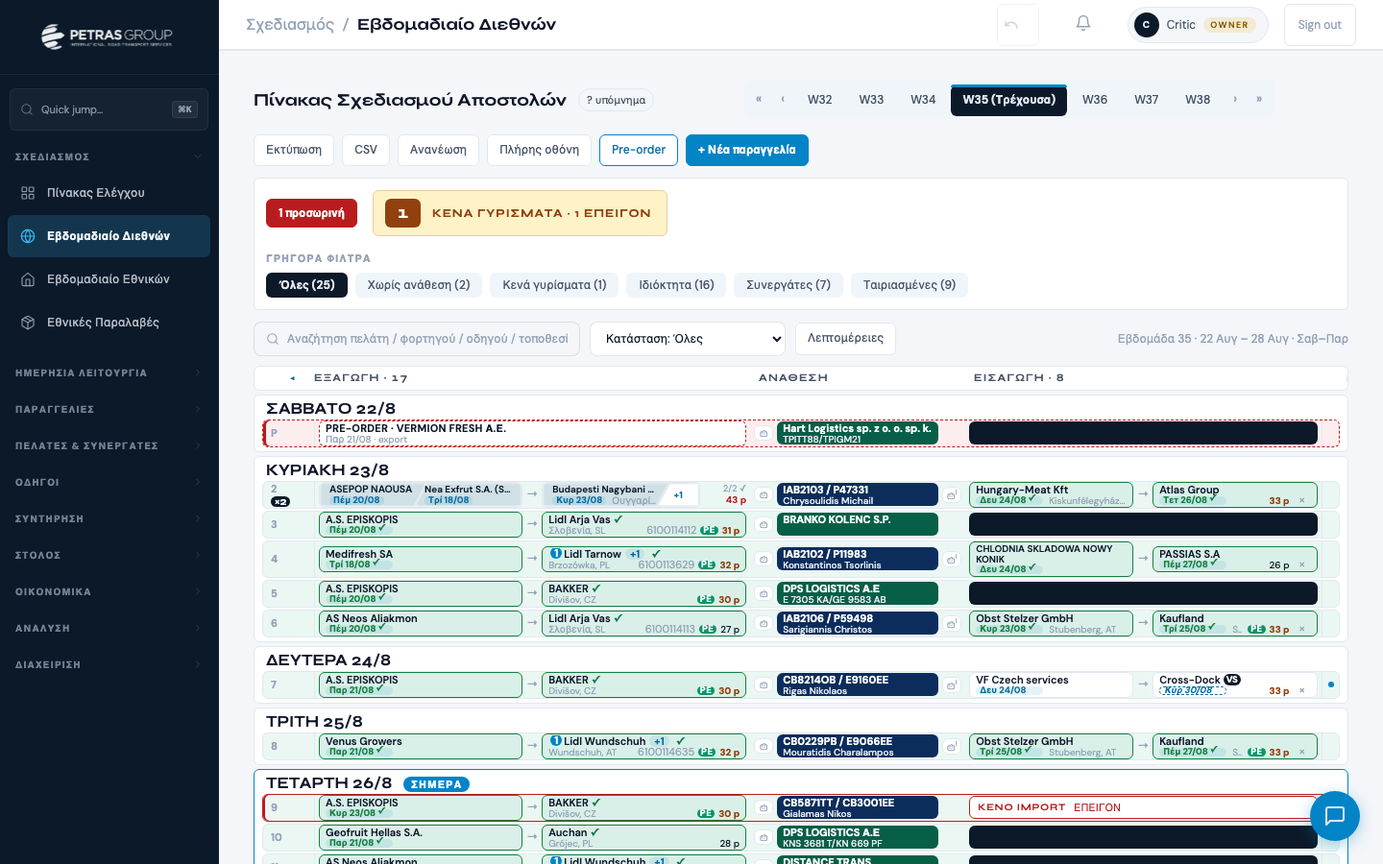
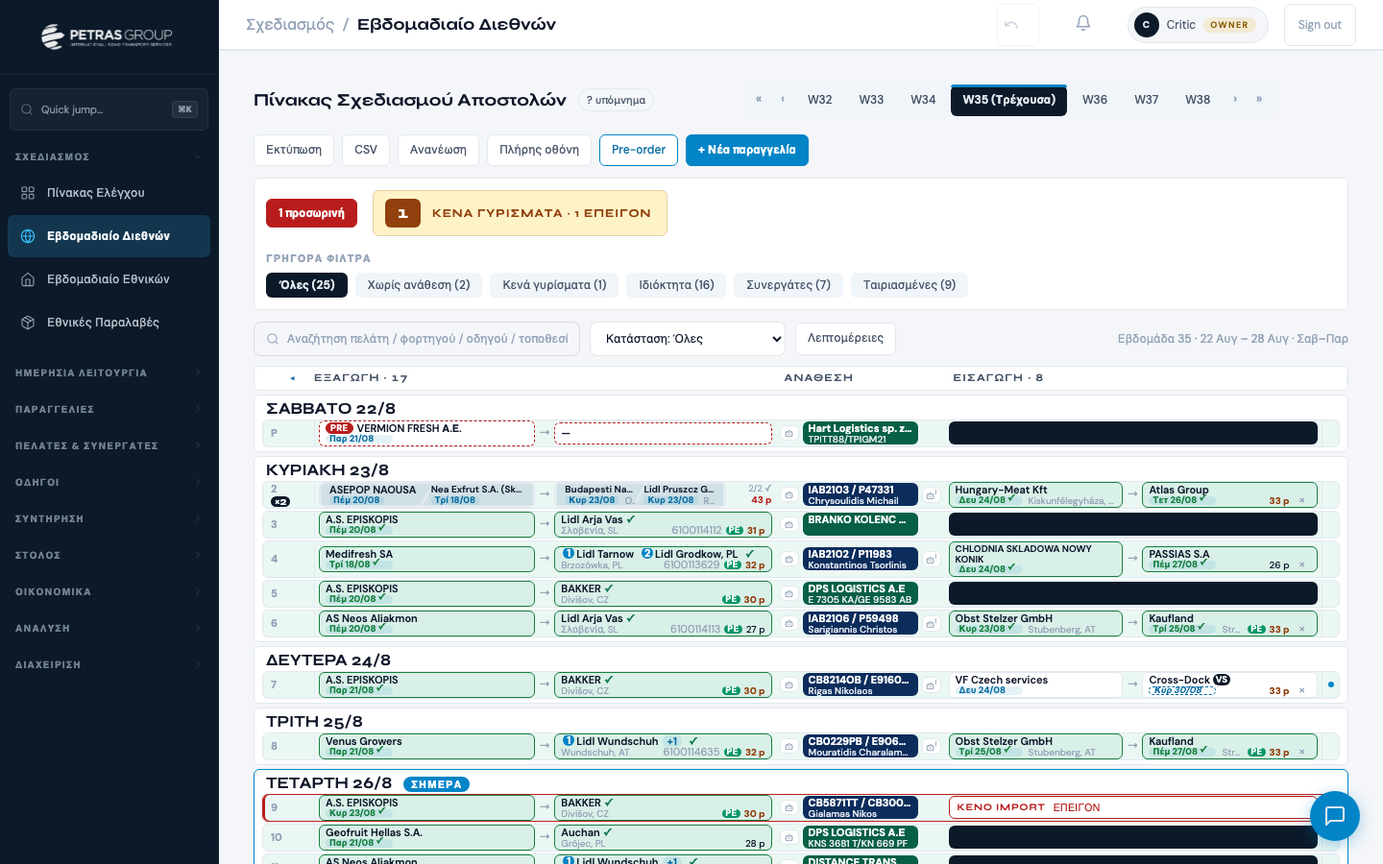
weekly_intl: ανάθεση 176px, πλακίδια groupage μόνο στο Weekly Διεθνών, «+N» σωστό (owner 28/9)
- Ανάθεση 224→176px (owner: «δεν υπάρχει ανάγκη για τόσο μεγάλο πλακίδιο»)·
  μακριές επωνυμίες/διπλές πινακίδες με «…» + title (αποδεκτό από owner).
- Ελεγκτής P1: οι κανόνες πυκνότητας των πλακιδίων ήταν στις ΚΟΙΝΕΣ .wk3-seg*
  που χρησιμοποιεί και το Weekly Εθνικών — τώρα όλοι .wk3.wi2, οι κοινοί ως
  στο main. (Βρέθηκε και «*/» μέσα σε σχόλιο που έκλεινε το σχόλιο νωρίς και
  ακύρωνε σιωπηλά τον επόμενο κανόνα — διορθώθηκε, μετρήθηκε 25px τμήμα.)
- _wi2FitSegs: το «+N» αφαιρεί το δικό του πλάτος πριν μοιραστούν τα 90px·
  η ανοιχτή ομάδα θυμάται την κατάσταση (WINTL.ui.segOpen, ανά σύνολο μελών)
  μετά από αναδιάταξη/επαναζωγράφιση· «+N»: Space + χωρίς native μενού.
- Αφαιρέθηκαν τα νεκρά .wk3-tiled/data-seg-n (το CSS τους είχε φύγει).
Rebase σε main a66adf5 (pre-order = κανονική γραμμή). Rig: 7 τύποι γραμμής,
ίδιο x ανά στήλη 1920/1440/1280, ×N 29px· ομάδα 3: «+1»/«+2», άνοιγμα 29→54,
δεξί κλικ κρυμμένου μέλους → «Ακύρωση groupage», σύρσιμο → PATCH Group ID,
αφαίρεση → PATCH Group ID "".

diff --git a/modules/weekly_intl.js b/modules/weekly_intl.js
@@ -263,12 +263,12 @@ const _WI2_CSS=`
    τις κανονικές, στον ίδιο πίνακα. minmax(0,…) αφαιρεί το κατώφλι
    περιεχομένου: τα κλάσματα γίνονται καθαρά αναλογικά και κάθε γραμμή —
    και η κεφαλίδα — βγάζει ταυτόσημες στήλες. */
-/* ΑΝΑΘΕΣΗ 240→224px (owner 28/9: «μήπως το assign είναι πολύ μεγάλο;»). 200px
-   was asked; measured on real data it cut the longest partner name («Hart
-   Logistics sp. z o. o. sp. k.», 155px at 11px bold) — 224px with the pill's
-   side padding 8→6px is the narrowest width that keeps it whole. The freed
-   16px go to the two legs through their 1.1fr/0.9fr split. */
-.wk3.wi2 .wk3-cols,.wk3.wi2 .wk3-row{grid-template-columns:36px var(--fL) minmax(0,1.1fr) 224px minmax(0,0.9fr) var(--fR)}
+/* ΑΝΑΘΕΣΗ 240→176px (owner 28/9: «να μικρύνουμε πλέον και το assign — δεν
+   υπάρχει ανάγκη για τόσο μεγάλο πλακίδιο/στήλη»). Owner accepts that long
+   partner names and double plates («CB8214OB / CB4406EB») ellipsize — the
+   pill's title carries the full text. The freed 64px go to the two legs
+   through their 1.1fr/0.9fr split. */
+.wk3.wi2 .wk3-cols,.wk3.wi2 .wk3-row{grid-template-columns:36px var(--fL) minmax(0,1.1fr) 176px minmax(0,0.9fr) var(--fR)}
 .wi2-mast{display:flex;align-items:center;gap:var(--space-4);margin-bottom:var(--space-3);flex-wrap:wrap}
 .wi2-title{font-family:'Syne',sans-serif;font-weight:700;font-size:18px;color:var(--text);display:flex;align-items:center;gap:12px;white-space:nowrap}
 .wi2-legend-btn{font:500 11px 'DM Sans',sans-serif;color:var(--text-mid);border:1px solid var(--border);border-radius:var(--radius-full);padding:4px 8px;background:none;cursor:pointer}
@@ -514,7 +514,7 @@ const _WI2_CSS=`
    τα κρυμμένα κελιά δεν πιάνουν στήλη, οπότε η εξαγωγή έπεφτε στα 18px.
    minmax(0,…) όπως και στο πλήρες πλάτος, για να μην εξαρτώνται τα πλάτη
    από το περιεχόμενο της κάθε γραμμής. */
-@media (max-width:1360px){.wk3.wi2 .wk3-cols,.wk3.wi2 .wk3-row{grid-template-columns:36px minmax(0,1.1fr) 224px minmax(0,0.9fr)}
+@media (max-width:1360px){.wk3.wi2 .wk3-cols,.wk3.wi2 .wk3-row{grid-template-columns:36px minmax(0,1.1fr) 176px minmax(0,0.9fr)}
 /* 27/9: the style.css:2948 hide never won — «.wk3.wi2 .wk3-feed{display:flex}»
    above out-ranks its bare «.wk3-feed{display:none}», so both feed cells
    still took grid slots in the 4-column grid: every row wrapped to ~94px
@@ -1367,7 +1367,7 @@ function _wiImpRowHTML(row,impNo){
         ? `<button class="wk3-prt r" title="Εκτύπωση ομάδας (import) — ${row.orderIds.length} έγγραφα σε ένα πακέτο" onclick="event.stopPropagation();_wiPrintImpGroup(${row.id})">⎙<sup>I</sup></button>`
         : `<button class="wk3-prt r" title="Εκτύπωση εντολής (import) — δεξί κλικ: κοινή χρήση" data-shq="${printSheetQuery(imp.id,'import',!!row.partnerId)}" data-shtitle="Εντολή εισαγωγής — W${WINTL.week}" onclick="event.stopPropagation();_wiPrintImp('${imp.id}',${row.partnerId?'true':'false'})">⎙<sup>I</sup></button>`}
     </div>`}
-    <div class="wk3-leg imp${segOn?' wk3-tiled':''}"${segOn?` data-seg-n="${members.length}"`:''} style="cursor:pointer" title="Κλικ: άνοιγμα φόρμας παραγγελίας — σύρε για ταίριασμα" onclick="event.stopPropagation();_wk3Edit('${imp.id}')">${isPre?loadCard:`${loadCard}<span class="wi2-arrow">→</span>${delCard}`}</div>
+    <div class="wk3-leg imp" style="cursor:pointer" title="Κλικ: άνοιγμα φόρμας παραγγελίας — σύρε για ταίριασμα" onclick="event.stopPropagation();_wk3Edit('${imp.id}')">${isPre?loadCard:`${loadCard}<span class="wi2-arrow">→</span>${delCard}`}</div>
     <div class="wk3-feed r" title="${impVS2?'Εθνική διανομή από Βέροια — τελικός προορισμός. Ο μεταφορέας συμπληρώνεται στο Weekly National.':'Χωρίς εθνικό σκέλος'}">${feedR}${(typeof impVS2!=="undefined"?impVS2:(imp&&impVS))?_wi2Carrier(imp.id):''}</div>
   </div>`;
 }
@@ -2293,7 +2293,7 @@ function _wiSegHTML(o,kind,isImportSide,idx,total,rowId,draggable){
 // «k/N παραδόθηκαν» μόλις παραδοθεί έστω μία στάση) — ΔΥΟ σειρές σε σταθερό
 // κουτί (owner review 8/9 v2: πριν ήταν μία inline γραμμή που μοιραζόταν το
 // ίδιο πλάτος με το ίδιο το πλακάτ παράδοσης και το στρίμωχνε· τώρα ζει σε
-// δικό του σταθερό πλάτος — βλ. assets/style.css .wk3-segtotals/.wk3-tiled).
+// δικό του κουτί — βλ. assets/style.css .wk3-segtotals). 28/9: σύντομο κείμενο.
 function _wiSegTotalsHTML(list){
   const n=list.length;
   const delivered=list.filter(o=>_wk3StFlags(o.fields).delivered).length;
@@ -2308,27 +2308,37 @@ function _wiSegTotalsHTML(list){
 // opens the whole group in place (all tiles, all their actions), again to close.
 function _wiSegPillWrap(rowId,list,kind,isImportSide,draggable,totalsHTML){
   const segs=list.map((o,idx)=>_wiSegHTML(o,kind,isImportSide,idx,list.length,rowId,draggable)).join('');
-  const more=`<div class="wk3-seg wk3-segmore off" data-pos="last" role="button" tabindex="0" title="Όλα τα μέλη της ομάδας" onkeydown="if(event.key==='Enter'){event.preventDefault();this.click()}" onclick="event.stopPropagation();_wi2SegToggle(this)" oncontextmenu="event.stopPropagation()"></div>`;
-  return `<div class="wk3-segwrap"><div class="wk3-segpill" data-row-id="${rowId}" data-kind="${kind}">${segs}${more}</div>${totalsHTML||''}</div>`;
+  const more=`<div class="wk3-seg wk3-segmore off" data-pos="last" role="button" tabindex="0" title="Όλα τα μέλη της ομάδας" onkeydown="if(event.key==='Enter'||event.key===' '){event.preventDefault();this.click()}" onclick="event.stopPropagation();_wi2SegToggle(this)" oncontextmenu="event.preventDefault();event.stopPropagation()"></div>`;
+  // Keyed by the member set (sorted ids), not rowId: row ids are rebuilt per
+  // week, and a reorder keeps the same members.
+  const open=!!(WINTL.ui.segOpen&&WINTL.ui.segOpen.has(list.map(o=>o.id).sort().join(',')+':'+kind));
+  return `<div class="wk3-segwrap${open?' open':''}"><div class="wk3-segpill" data-row-id="${rowId}" data-kind="${kind}">${segs}${more}</div>${totalsHTML||''}</div>`;
 }
+// The open state lives in WINTL.ui, not only on the DOM: reorder/remove from
+// inside an opened group repaint the row (or the board) — without this it
+// snapped back to «+N» right after the action it was opened for.
 function _wi2SegToggle(el){
-  const w=el.closest('.wk3-segwrap'); if(!w) return;
-  w.classList.toggle('open'); _wi2FitSegs();
+  const w=el.closest('.wk3-segwrap'), p=w&&w.querySelector('.wk3-segpill'); if(!p) return;
+  const ids=[...p.querySelectorAll('.wk3-seg[data-order-id]')].map(x=>x.dataset.orderId).sort().join(',');
+  const k=ids+':'+p.dataset.kind, set=WINTL.ui.segOpen=WINTL.ui.segOpen||new Set();
+  if(w.classList.toggle('open')) set.add(k); else set.delete(k);
+  _wi2FitSegs();
 }
 // One line of tiles per group card: a tile narrower than ~90px shows nothing
 // readable, so the tiles that do not fit collapse into «+N» (the diagonal
 // seams overlap 12px, counted). Open = every tile, wrapped, «−» to close.
 function _wi2FitSegs(){
-  const MIN=90, SEAM=12;
+  const MIN=90, SEAM=12, MORE=44;
   document.querySelectorAll('#wi-rows .wk3-segpill').forEach(p=>{
     if(!p.offsetParent) return;
     const segs=[...p.querySelectorAll(':scope>.wk3-seg:not(.wk3-segmore)')], more=p.querySelector(':scope>.wk3-segmore');
     if(!more) return;
     segs.forEach(x=>x.classList.remove('off'));
     const open=p.closest('.wk3-segwrap').classList.contains('open');
-    const fit=k=>(p.clientWidth+SEAM*(k-1))/k>=MIN;
+    // k tiles, plus the «+N» tile when some are hidden (it overlaps one seam).
+    const fit=(k,withMore)=>(p.clientWidth-(withMore?MORE-SEAM:0)+SEAM*(k-1))/k>=MIN;
     let show=segs.length;
-    if(!open&&!fit(show)){ show=Math.max(1,segs.length-1); while(show>1&&!fit(show+1)) show--; }
+    if(!open&&!fit(show,false)){ show=segs.length-1; while(show>1&&!fit(show,true)) show--; }
     const hidden=segs.length-show;
     segs.forEach((x,i)=>x.classList.toggle('off',i>=show));
     more.classList.toggle('off',!open&&!hidden);
@@ -2472,9 +2482,9 @@ function _wiRowHTML(row,i){
     // _wiRemoveImport(row.id) the classic single card below already used via
     // _wiUnmatch. Appended INSIDE the totals block (.wk3-segwrap is a flex
     // row, CLAUDE.md file allowlist for this fix has no assets/style.css)
-    // rather than as a sibling of gLoad/gDel — .wk3-leg.wk3-tiled is a fixed
-    // 3-column grid (load/arrow/del, assets/style.css .wk3-leg.wk3-tiled) and
-    // a 4th sibling would silently overflow that grid instead of sitting in
+    // rather than as a sibling of gLoad/gDel — .wk3-leg is a fixed 3-column
+    // grid (load/arrow/del) and a 4th sibling would overflow that grid
+    // instead of sitting in
     // the delivery column where the classic card's own «×» lived.
     // draggable=true (item 2, owner 8/9): GI segments reorder from inside a
     // matched export row exactly like the standalone GI- row does.
@@ -2543,7 +2553,7 @@ function _wiRowHTML(row,i){
   <div id="wi-row-${row.id}" data-row-id="${row.id}" class="${rowCls}">
     <div class="wk3-num">${isPre?'P':i+1}${isGroup?`<button class="wk3-grpb" title="Groupage ×${exps.length} — κλικ: μέλη ομάδας (βάση: το πρώτο-παραδιδόμενο)" onclick="event.stopPropagation();_wiToggleGroup(${row.id})">×${exps.length}</button>`:''}<span class="wi-sync" id="wi-sync-${row.id}"></span></div>
     <div class="wk3-feed l" title="${vsExp?'Εθνικό σκέλος προς Βέροια — φόρτωση από τον αρχικό πελάτη. Ο μεταφορέας συμπληρώνεται στο Weekly National.':'Χωρίς εθνικό σκέλος — δεν είναι Veroia Switch'}">${feedL}${vsExp?_wi2Carrier(pid):''}</div>
-    <div class="wk3-leg${isGroup?' grp':''}${segOn?' wk3-tiled':''}"${segOn?` data-seg-n="${exps.length}"`:''} style="cursor:pointer" title="${isGroup?'Κλικ: καρτέλα ρότας ομάδας · δεξί κλικ: groupage/ρότα':'Κλικ: άνοιγμα φόρμας παραγγελίας · δεξί κλικ: groupage/ρότα'}" oncontextmenu="_wiCtx(event,${row.id})" onclick="event.stopPropagation();${isGroup?`_wiRota(${row.id})`:`_wk3Edit('${pid}')`}">${isPre?loadCard:`${loadCard}<span class="wi2-arrow">→</span>${delCard}`}</div>
+    <div class="wk3-leg${isGroup?' grp':''}" style="cursor:pointer" title="${isGroup?'Κλικ: καρτέλα ρότας ομάδας · δεξί κλικ: groupage/ρότα':'Κλικ: άνοιγμα φόρμας παραγγελίας · δεξί κλικ: groupage/ρότα'}" oncontextmenu="_wiCtx(event,${row.id})" onclick="event.stopPropagation();${isGroup?`_wiRota(${row.id})`:`_wk3Edit('${pid}')`}">${isPre?loadCard:`${loadCard}<span class="wi2-arrow">→</span>${delCard}`}</div>
     ${row.hasSplitLegs
       // Wave 3: the parent no longer executes — no assign popover, no print
       // (nothing to hand a driver for a row that is not itself moving). The

diff --git a/assets/style.css b/assets/style.css
@@ -7322,8 +7322,8 @@ button.btn-icon:focus-visible { outline:2px solid var(--accent); outline-offset:
 .wk3-segpill{flex:1 1 0;min-width:0;display:flex;border:1px solid var(--border);
   border-radius:var(--radius);overflow:hidden;background:var(--surface-card)}
 .wk3-seg{position:relative;flex:1 1 0;min-width:0;box-sizing:border-box;
-  display:flex;flex-direction:column;justify-content:center;min-height:25px;
-  padding:0 10px;background:var(--border);--seg-bg:var(--surface-card);cursor:pointer;
+  display:flex;flex-direction:column;justify-content:center;min-height:36px;
+  padding:3px 10px;background:var(--border);--seg-bg:var(--surface-card);cursor:pointer;
   isolation:isolate;
   transition:transform var(--duration-fast) var(--ease-out),box-shadow var(--duration-fast) var(--ease-out);}
 /* Διαγώνιο κόψιμο (spec): άκρα στρογγυλά (το κλείνει το overflow:hidden του
@@ -7363,37 +7363,53 @@ button.btn-icon:focus-visible { outline:2px solid var(--accent); outline-offset:
 .wk3-seg.late{--seg-bg:var(--danger-bg)}
 .wk3-seg.dragging{opacity:.4}
 .wk3-seg.dragover{outline:2px dashed var(--accent);outline-offset:-2px}
-.wk3-segtop{display:flex;align-items:center;gap:6px;font-size:10px;height:11px;line-height:11px}
-/* Κλίμακα της μονής κάρτας (owner 28/9, παραλλαγή A: όνομα 11/12, 2η σειρά
-   10/11, πλακίδια 9.5) — ίδια γράμματα σε ομάδα και σε μονή παραγγελία, ώστε
-   η γραμμή να μένει 29px. Το όνομα ΔΕΝ αναδιπλώνεται: «…» + title. */
-.wk3-seg .wi2-name{font-size:11px;line-height:12px;font-weight:600;white-space:nowrap;overflow:hidden;text-overflow:ellipsis}
-.wk3-seg .wi2-sub{font-size:10px}
-.wk3-seg .wi2-date{font-size:9.5px;padding:0 4px;min-width:0;height:auto;line-height:9.5px;
+.wk3-segtop{display:flex;align-items:center;gap:6px;font-size:11px}
+/* Πυκνότερη γραμματοσειρά ΜΕΣΑ στο τμήμα — οι κοινές .wi2-name/.wi2-sub/.wi2-date
+   (μοιρασμένες με τη μονή κάρτα, 13/11/11px) δεν χωρούν σε τμήμα πλάτους
+   ~100-130px· scope εδώ, όχι στις κοινές κλάσεις, ώστε η μονή κάρτα να μείνει
+   ανέγγιχτη. Νούμερα: spec 2026-09-08 v2 §Segment content. */
+.wk3-seg .wi2-name{font-size:10px;line-height:13px;font-weight:600}
+.wk3-seg .wi2-sub{font-size:9px}
+.wk3-seg .wi2-date{font-size:9px;padding:0 5px;min-width:0;height:16px;line-height:16px;
   border-radius:var(--radius-sm);box-sizing:border-box}
-.wk3-segtop .wi2-name{font-size:10px}
-.wk3-segtop .wi2-pal{font-size:9.5px}
-.wk3-seg.off{display:none}
-.wk3-segmore{flex:0 0 auto;min-width:44px;align-items:center;font:700 10px 'DM Sans',sans-serif;color:var(--accent-text)}
-.wk3-segmore.off{display:none}
-.wk3-segwrap.open .wk3-segpill{flex-wrap:wrap}
-.wk3-segwrap.open .wk3-seg{flex:1 1 90px}
-/* Σύνολα δεξιά της παράδοσης (owner review 8/9 v2 — item γ): κουτί ΕΚΤΟΣ του
-   πλακάτ, ώστε να μην το στριμώχνει. 28/9: στενό κουτί με το «N p» κάτω δεξιά,
-   στη θέση που έχουν οι παλέτες στη μονή κάρτα, και τις στάσεις από πάνω. */
-.wk3-segtotals{flex:0 0 auto;min-width:40px;box-sizing:border-box;display:flex;
-  flex-direction:column;align-items:flex-end;justify-content:center;gap:1px;text-align:right}
-.wk3-segtotals .wi2-pal{font-size:10px;font-weight:700;line-height:11px}
-.wk3-segstops{font-size:9.5px;color:var(--text-dim);line-height:10px;white-space:nowrap}
-/* ΠΛΑΚΑΤ ΣΤΟ ΚΟΙΝΟ ΠΛΕΓΜΑ (owner 28/9: «να σουλουπωθεί στα νέα δεδομένα»).
-   Μέχρι τις 28/9 ένα .wk3-tiled σκέλος είχε δικά του ελάχιστα πλάτη
-   (238-334px) και η γραμμή του δικό της grid-template (σκέλη 580-600px) — η
-   ανάθεση και η εισαγωγή μιας ομάδας ξεκινούσαν 72-136px δεξιότερα από κάθε
-   άλλη γραμμή. Οι κανόνες αυτοί αφαιρέθηκαν: το πλακάτ ζει στο ίδιο κελί, με
+.wk3-segtop .wi2-name{font-size:9px}
+.wk3-segtop .wi2-pal{font-size:9px}
+/* Σύνολα δεξιά της παράδοσης (owner review 8/9 v2 — item γ): σταθερό κουτί
+   ΕΚΤΟΣ του μεριδίου πλάτους του ίδιου του πλακάτ (βλ. .wk3-tiled παρακάτω) —
+   πριν μοιραζόταν flex:1 1 0 με το .wk3-segpill μέσα στο ίδιο .wk3-segwrap και
+   το στρίμωχνε ίσα με το πλάτος των συνόλων. */
+.wk3-segtotals{flex:0 0 64px;width:64px;box-sizing:border-box;display:flex;
+  flex-direction:column;align-items:center;justify-content:center;gap:1px;text-align:center}
+.wk3-segtotals .wi2-pal{font-size:12px;font-weight:700;line-height:1.15}
+.wk3-segstops{font-size:9px;color:var(--text-dim);line-height:1.15;white-space:nowrap}
+/* ΠΛΑΚΑΤ ΣΤΟ ΚΟΙΝΟ ΠΛΕΓΜΑ — Weekly International (owner 28/9: «να σουλουπωθεί
+   στα νέα δεδομένα»). Μέχρι τις 28/9 ένα .wk3-tiled σκέλος είχε δικά του
+   ελάχιστα πλάτη (238-334px) και η γραμμή του δικό της grid-template (σκέλη
+   580-600px) — η ανάθεση και η εισαγωγή μιας ομάδας ξεκινούσαν 72-136px
+   δεξιότερα από κάθε άλλη γραμμή. Αφαιρέθηκαν: το πλακάτ ζει στο ίδιο κελί, με
    το ίδιο πλάτος, όπως η μονή κάρτα. Όσα τμήματα δεν χωρούν σε μία σειρά
-   (ελάχιστο ~90px το καθένα) μαζεύονται σε ένα τμήμα «+N» που ανοίγει την
-   ομάδα σε όλο της το μέγεθος (weekly_intl.js _wi2FitSegs) — κάθε ενέργεια
-   τμήματος (δεξί κλικ, σύρσιμο, αφαίρεση μέλους) μένει προσβάσιμη. */
+   (~90px το καθένα) μαζεύονται σε «+N» που ανοίγει την ομάδα επιτόπου
+   (weekly_intl.js _wi2FitSegs) — κάθε ενέργεια τμήματος μένει προσβάσιμη.
+   ΟΛΟΙ οι κανόνες εδώ είναι .wk3.wi2: το Weekly National χρησιμοποιεί τις ίδιες
+   κοινές κλάσεις .wk3-seg / .wk3-segtotals (βλ. weekly_natl.js _wnSegHTML) και ΔΕΝ
+   αλλάζει — γι' αυτό οι κοινοί κανόνες πάνω έμειναν ως είχαν. */
+.wk3.wi2 .wk3-seg{min-height:25px;padding:0 10px}
+.wk3.wi2 .wk3-segtop{font-size:10px;height:11px;line-height:11px}
+/* Κλίμακα της μονής κάρτας (παραλλαγή A: όνομα 11/12, 2η σειρά 10/11,
+   πλακίδια 9.5) — γραμμή 29px. Το όνομα ΔΕΝ αναδιπλώνεται: «…» + title. */
+.wk3.wi2 .wk3-seg .wi2-name{font-size:11px;line-height:12px;white-space:nowrap;overflow:hidden;text-overflow:ellipsis}
+.wk3.wi2 .wk3-seg .wi2-sub{font-size:10px}
+.wk3.wi2 .wk3-seg .wi2-date{font-size:9.5px;padding:0 4px;height:auto;line-height:9.5px}
+.wk3.wi2 .wk3-segtop .wi2-pal{font-size:9.5px}
+.wk3.wi2 .wk3-seg.off{display:none}
+.wk3.wi2 .wk3-segmore{flex:0 0 auto;min-width:44px;align-items:center;font:700 10px 'DM Sans',sans-serif;color:var(--accent-text)}
+.wk3.wi2 .wk3-segmore.off{display:none}
+.wk3.wi2 .wk3-segwrap.open .wk3-segpill{flex-wrap:wrap}
+.wk3.wi2 .wk3-segwrap.open .wk3-seg{flex:1 1 90px}
+/* Σύνολα: στενό κουτί, «N p» κάτω δεξιά όπως οι παλέτες της μονής κάρτας. */
+.wk3.wi2 .wk3-segtotals{flex:0 0 auto;width:auto;min-width:40px;align-items:flex-end;text-align:right}
+.wk3.wi2 .wk3-segtotals .wi2-pal{font-size:10px;line-height:11px}
+.wk3.wi2 .wk3-segstops{font-size:9.5px;line-height:10px}
 /* Item 2 tooltip: πελάτης, αναφορά, παλέτες, ημέρα/ώρα — CSS-only hover. */
 .wk3-segtip{display:none;position:absolute;left:0;top:100%;margin-top:6px;z-index:20;
   min-width:170px;max-width:240px;background:var(--surface-dark);color:var(--text-on-dark);

diff --git a/app.html b/app.html
@@ -12,7 +12,7 @@
 <!-- DM Sans 600/700: το TRIP PnL (Figma 28/8) ζητά πραγματικά SemiBold/Bold
      ποσά — χωρίς αυτά ο browser συνθέτει faux-bold απ' το 500. -->
 <link href="https://fonts.googleapis.com/css2?family=Syne:wght@400;500;600;700;800&family=DM+Sans:wght@300;400;500;600;700&display=swap" rel="stylesheet">
-<link rel="stylesheet" href="assets/style.css?v=1790534881">
+<link rel="stylesheet" href="assets/style.css?v=1790575024">
 </head>
 <body>
 
@@ -135,7 +135,7 @@
 <!-- 3. Modules -->
 <script src="modules/preorder.js?v=1790573980"></script>
 <script src="modules/dashboard.js?v=1788720070"></script>
-<script src="modules/weekly_intl.js?v=1790573980"></script>
+<script src="modules/weekly_intl.js?v=1790575024"></script>
 <script src="modules/weekly_natl.js?v=1789387831"></script>
   <script src="modules/daily_ramp.js?v=1789328870"></script>
   <script src="modules/costs.js?v=1790108919"></script>

diff --git a/sw.js b/sw.js
@@ -7,7 +7,7 @@
 //   - Offline banner via postMessage to all clients
 // ═══════════════════════════════════════════════════════════
 
-const SW_VERSION = '1790573980';
+const SW_VERSION = '1790575024';
 
 // Το vendor/leaflet/* ΔΕΝ μπαίνει στο APP_SHELL επίτηδες: το pre-cache στο
 // install θα κατέβαζε 228 KB σε κάθε χρήστη, ακυρώνοντας το lazy loading της
